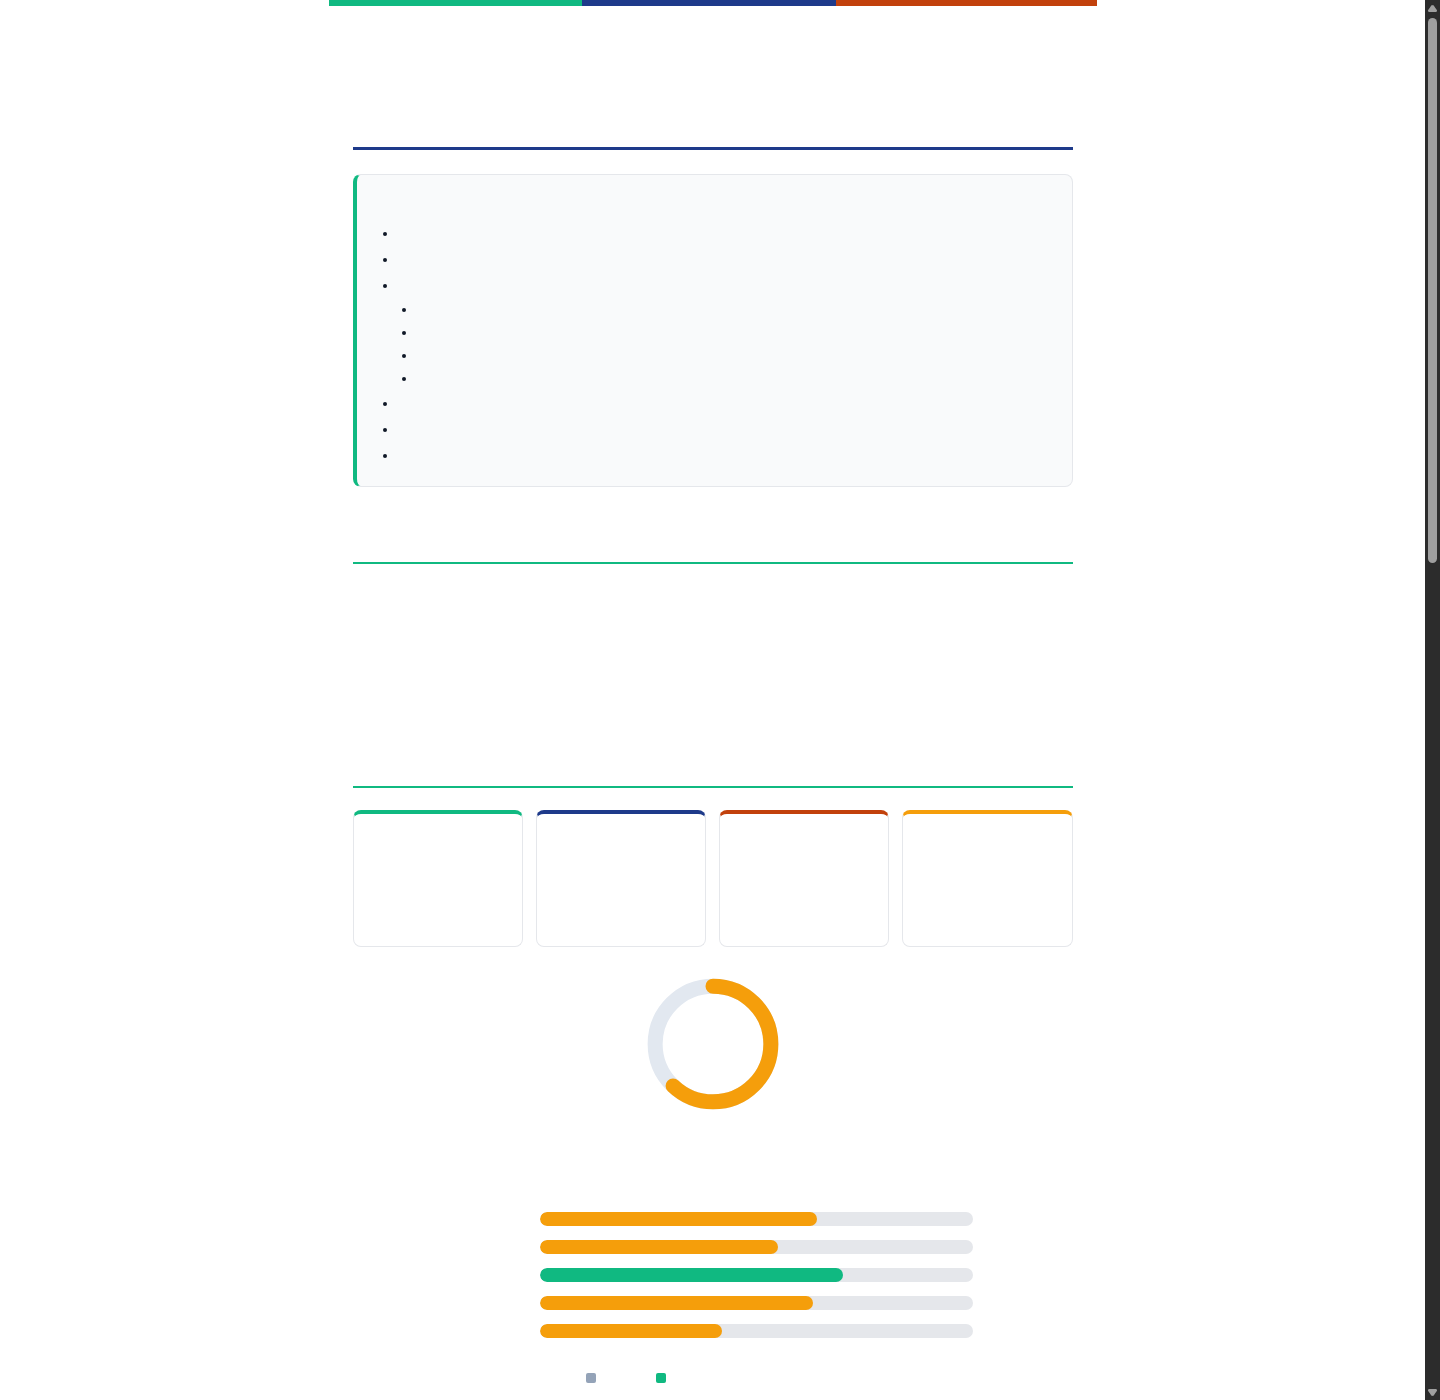
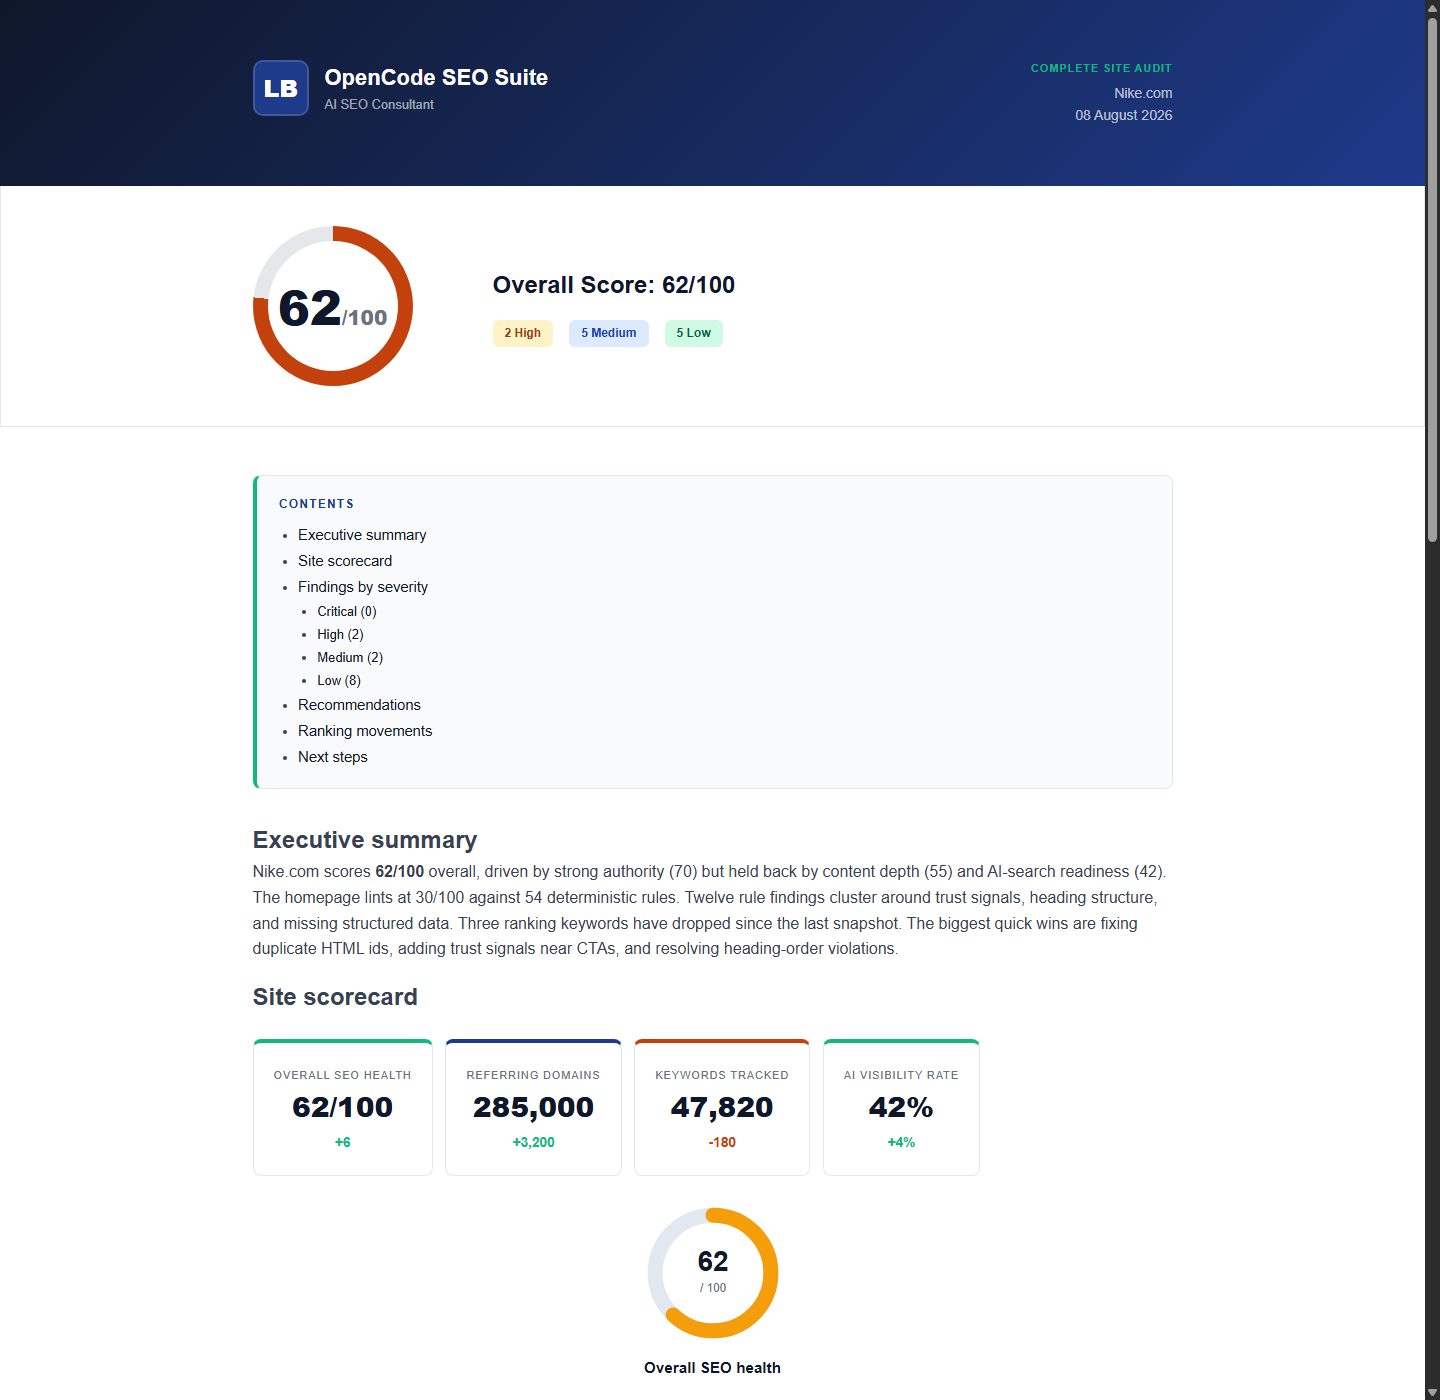
v0.20.1: repair branded PDF text rendering

diff --git a/scripts/report_build.py b/scripts/report_build.py
@@ -335,19 +335,20 @@ def _severity_badge(cell_html: str, raw: str) -> str:
     return cell_html
 
 
-def _extract_score(markdown: str) -> tuple[int | None, str]:
+def _extract_score(markdown: str) -> tuple[float | None, str]:
     """Extract overall score and summary from markdown content."""
     # Look for patterns like "59/100", "Score: 59", "Overall: 59"
     patterns = [
-        r"(?:overall|total|score|rating)[:\s]*(\d{1,3})\s*(?:/\s*100|out of 100)?",
-        r"(\d{1,3})\s*/\s*100",
-        r"(\d{1,3})\s*out of\s*100",
+        r"(?:overall|total|score|rating)[:\s]*(\d{1,3}(?:\.\d+)?)\s*(?:/\s*100|out of 100)?",
+        r"(?<![\d.])(\d{1,3}(?:\.\d+)?)\s*/\s*100",
+        r"(?<![\d.])(\d{1,3}(?:\.\d+)?)\s*out of\s*100",
     ]
     for pattern in patterns:
         m = re.search(pattern, markdown, re.I)
         if m:
-            score = int(m.group(1))
+            score = float(m.group(1))
             if 0 <= score <= 100:
+                score = int(score) if score.is_integer() else score
                 # Try to extract summary from first paragraph after score.
                 # Skip markdown syntax lines (headings, tables, fences,
                 # lists) so structural markup can't bleed into the summary.
@@ -545,15 +546,13 @@ SHELL = """<!DOCTYPE html>
 <meta charset="utf-8">
 <meta name="viewport" content="width=device-width, initial-scale=1">
 <title>{title}</title>
-<link rel="preconnect" href="https://fonts.bunny.net">
-<link href="https://fonts.bunny.net/css?family=inter:400,500,600,700,800|space-grotesk:400,500,600,700,800" rel="stylesheet">
 <style>
   :root {{ --navy: {navy}; --emerald: {emerald}; --orange: {orange};
            --dark: {dark}; --white: #FFFFFF; --gray-50: #F9FAFB;
            --gray-100: #F3F4F6; --gray-200: #E5E7EB; --gray-500: #6B7280;
            --gray-600: #4B5563; --gray-700: #374151; --gray-900: #111827; }}
   * {{ margin: 0; padding: 0; box-sizing: border-box; }}
-  body {{ font-family: 'Inter', -apple-system, BlinkMacSystemFont, sans-serif;
+  body {{ font-family: Arial, Helvetica, sans-serif;
          color: var(--gray-700); line-height: 1.6; background: var(--white); }}
   .container {{ max-width: 1000px; margin: 0 auto; padding: 0 40px; }}
   .report-header {{ background: linear-gradient(135deg, var(--dark) 0%, var(--navy) 100%);
@@ -565,7 +564,7 @@ SHELL = """<!DOCTYPE html>
                  border-radius: 10px; display: flex; align-items: center;
                  justify-content: center; font-size: 24px; font-weight: 800;
                  color: var(--white); border: 2px solid rgba(255,255,255,0.15); }}
-  .brand-name {{ font-family: 'Space Grotesk', sans-serif; font-size: 22px;
+   .brand-name {{ font-family: Arial, Helvetica, sans-serif; font-size: 22px;
                  font-weight: 700; }}
   .brand-role {{ font-size: 13px; color: rgba(255,255,255,0.6); }}
   .report-meta {{ text-align: right; }}
@@ -588,11 +587,13 @@ SHELL = """<!DOCTYPE html>
   .score-circle::after {{ content: ''; width: 130px; height: 130px;
                           background: var(--white); border-radius: 50%;
                           position: absolute; }}
-  .score-value {{ position: relative; z-index: 1;
-                  font-family: 'Space Grotesk', sans-serif; font-size: 48px;
-                  font-weight: 800; color: var(--dark); }}
-  .score-value span {{ font-size: 20px; color: var(--gray-500); }}
-  .score-summary h2 {{ font-family: 'Space Grotesk', sans-serif; font-size: 24px;
+   .score-value {{ position: relative; z-index: 1;
+                   font-family: Arial, Helvetica, sans-serif; font-size: 48px;
+                   font-weight: 800; color: var(--dark); }}
+   .score-value span {{ font-size: 20px; color: var(--gray-500); }}
+   .score-value.decimal {{ font-size: 38px; }}
+   .score-value.decimal span {{ font-size: 16px; }}
+   .score-summary h2 {{ font-family: Arial, Helvetica, sans-serif; font-size: 24px;
                        font-weight: 700; color: var(--dark); margin-bottom: 12px; }}
   .score-summary p {{ color: var(--gray-600); line-height: 1.7; }}
   .findings-count {{ display: flex; gap: 16px; margin-top: 16px; flex-wrap: wrap; }}
@@ -604,10 +605,10 @@ SHELL = """<!DOCTYPE html>
   .tag-low {{ background: #D1FAE5; color: #065F46; }}
   .content {{ padding: 48px 0; }}
   .section {{ margin-bottom: 48px; }}
-  .section-title {{ font-family: 'Space Grotesk', sans-serif; font-size: 20px;
+   .section-title {{ font-family: Arial, Helvetica, sans-serif; font-size: 20px;
                     font-weight: 700; color: var(--dark); padding-bottom: 12px;
                     border-bottom: 2px solid var(--dark); margin-bottom: 24px; }}
-  h3 {{ font-family: 'Space Grotesk', sans-serif; font-size: 16px;
+   h3 {{ font-family: Arial, Helvetica, sans-serif; font-size: 16px;
         font-weight: 600; color: var(--dark); margin-bottom: 12px; }}
   p {{ margin-bottom: 16px; }}
   table {{ width: 100%; border-collapse: collapse; margin-bottom: 24px; }}
@@ -655,7 +656,7 @@ SHELL = """<!DOCTYPE html>
   .next-step {{ background: linear-gradient(135deg, var(--dark) 0%, var(--navy) 100%);
                 border-radius: 12px; padding: 32px; color: var(--white); margin: 32px 0; }}
   .next-step h3 {{ color: var(--emerald); margin-bottom: 8px;
-                   font-family: 'Space Grotesk', sans-serif; }}
+                   font-family: Arial, Helvetica, sans-serif; }}
   .next-step p {{ color: rgba(255,255,255,0.8); margin-bottom: 0; }}
   .stats-row {{ display: grid; grid-template-columns: repeat(auto-fit, minmax(140px, 1fr));
                 gap: 16px; margin-bottom: 48px; }}
@@ -667,7 +668,7 @@ SHELL = """<!DOCTYPE html>
   .stat-card:nth-child(4) {{ border-top-color: var(--emerald); }}
   .stat-card:nth-child(5) {{ border-top-color: var(--navy); }}
   .stat-card:nth-child(6) {{ border-top-color: var(--orange); }}
-  .stat-value {{ font-family: 'Space Grotesk', sans-serif; font-size: 28px;
+   .stat-value {{ font-family: Arial, Helvetica, sans-serif; font-size: 28px;
                  font-weight: 800; color: var(--dark); }}
   .stat-label {{ font-size: 11px; text-transform: uppercase;
                  letter-spacing: 0.08em; color: var(--gray-500); margin-top: 4px; }}
@@ -678,7 +679,7 @@ SHELL = """<!DOCTYPE html>
                   border-top: 4px solid var(--emerald); }}
   .roadmap-col:nth-child(2) {{ border-top-color: var(--navy); }}
   .roadmap-col:nth-child(3) {{ border-top-color: var(--orange); }}
-  .roadmap-col h4 {{ font-family: 'Space Grotesk', sans-serif; font-size: 14px;
+   .roadmap-col h4 {{ font-family: Arial, Helvetica, sans-serif; font-size: 14px;
                      font-weight: 700; color: var(--dark); margin-bottom: 16px;
                      text-transform: uppercase; letter-spacing: 0.05em; }}
   .roadmap-col ol {{ padding-left: 20px; font-size: 13px; color: var(--gray-600);
@@ -734,7 +735,9 @@ SHELL = """<!DOCTYPE html>
   body.onepager .score-grid {{ gap: 24px; }}
   body.onepager .score-circle {{ width: 100px; height: 100px; }}
   body.onepager .score-circle::after {{ width: 80px; height: 80px; }}
-  body.onepager .score-value {{ font-size: 32px; }}
+   body.onepager .score-value {{ font-size: 32px; }}
+   body.onepager .score-value.decimal {{ font-size: 27px; }}
+   body.onepager .score-value.decimal span {{ font-size: 12px; }}
   body.onepager .section {{ margin-bottom: 24px; }}
   body.onepager .stats-row {{ margin-bottom: 24px; }}
   body.onepager .roadmap-grid {{ gap: 12px; }}
@@ -803,7 +806,7 @@ def _extract_domain(title: str) -> str:
     return m.group(1) if m else ""
 
 
-def _build_score_section(score: int | None, summary: str,
+def _build_score_section(score: float | None, summary: str,
                          severity_counts: dict[str, int]) -> str:
     """Build the score section HTML."""
     if score is None:
@@ -812,6 +815,9 @@ def _build_score_section(score: int | None, summary: str,
     score_colour = EMERALD if score >= 70 else (ORANGE if score >= 40 else "#F59E0B")
     score_deg = score * 3.6
     score_deg_plus = min(score_deg + 53, 360)
+    score_display = f"{score:g}"
+    score_class = "score-value decimal" if isinstance(score, float) \
+        and not score.is_integer() else "score-value"
 
     summary_html = html.escape(summary) if summary else ""
 
@@ -827,10 +833,10 @@ def _build_score_section(score: int | None, summary: str,
     <div class="score-grid">
       <div class="score-circle" style="--score-colour:{score_colour};
            --score-deg:{score_deg}deg; --score-deg-plus:{score_deg_plus}deg;">
-        <div class="score-value">{score}<span>/100</span></div>
+        <div class="{score_class}">{score_display}<span>/100</span></div>
       </div>
       <div class="score-summary">
-        <h2>Overall Score: {score}/100</h2>
+        <h2>Overall Score: {score_display}/100</h2>
         <p>{summary_html}</p>
         <div class="findings-count">{tags_html}</div>
       </div>

diff --git a/tests/test_suite.py b/tests/test_suite.py
@@ -1297,6 +1297,21 @@ class TestLogAnalyzer:
 # ---------------------------------------------------------------------------
 
 class TestReportBuild:
+    def test_template_uses_self_contained_font_stack(self):
+        # Client PDFs are rendered from local files; remote web fonts can
+        # produce blank glyphs in headless browser PDF output.
+        assert "fonts.bunny.net" not in report_build.SHELL
+        assert "Arial, Helvetica, sans-serif" in report_build.SHELL
+
+    def test_decimal_score_extraction_does_not_drop_integer_part(self):
+        score, _ = report_build._extract_score(
+            "Overall SEO health: 60.6/100, up 3.6 points.")
+        assert score == 60.6
+        section = report_build._build_score_section(score, "", {})
+        assert "60.6/100" in section
+        assert "--score-deg:218.16deg" in section
+        assert 'class="score-value decimal"' in section
+
     def test_heading_and_bold(self):
         body, _ = report_build.md_to_html("## Hello\n\nSome **bold** text")
         assert "<h2 id=\"hello\">Hello</h2>" in body

diff --git a/CHANGELOG.md b/CHANGELOG.md
@@ -3,6 +3,25 @@
 All notable changes to the OpenCode SEO Suite are documented here.
 Format follows [Keep a Changelog](https://keepachangelog.com/en/1.1.0/).
 
+## [0.20.1] - 2026-08-08
+
+Branded PDF report rendering repair.
+
+### Fixed
+- Reports rendered through Edge/Chrome headless from local HTML no longer
+  use externally hosted Bunny font faces. Those faces produced blank glyphs
+  in the browser PDF/local-file pipeline: layout, charts and cards rendered
+  but every data value and finding disappeared. The template now uses a
+  self-contained Arial/Helvetica stack, so HTML, full PDF and executive
+  one-pager remain readable without network access
+- Decimal scores such as `60.6/100` no longer parse as `6/100` in the
+  branded score header. Decimal values now render at a compact size inside
+  the score circle without colliding with `/100`
+- Regenerated `docs/images/audit-report.png` and `dashboard.png` from the
+  repaired renderer, replacing the broken README visuals
+- Added regression coverage for the self-contained font stack and decimal
+  score extraction/layout (197 tests total)
+
 ## [0.20.0] - 2026-08-02
 
 Search Experience Optimisation (SXO) workflow.

diff --git a/README.md b/README.md
@@ -2,7 +2,7 @@
 
 [![CI](https://github.com/venomous2/opencode-seo/actions/workflows/ci.yml/badge.svg)](https://github.com/venomous2/opencode-seo/actions/workflows/ci.yml)
 [![License: MIT](https://img.shields.io/badge/License-MIT-yellow.svg)](LICENSE)
-[![Tests](https://img.shields.io/badge/tests-195%20passing-brightgreen)](tests)
+[![Tests](https://img.shields.io/badge/tests-197%20passing-brightgreen)](tests)
 [![Rules](https://img.shields.io/badge/rules-54%20self--testing-00E0BA)](rules)
 [![Models](https://img.shields.io/badge/models-400%2B-blueviolet)](https://openrouter.ai/)
 
